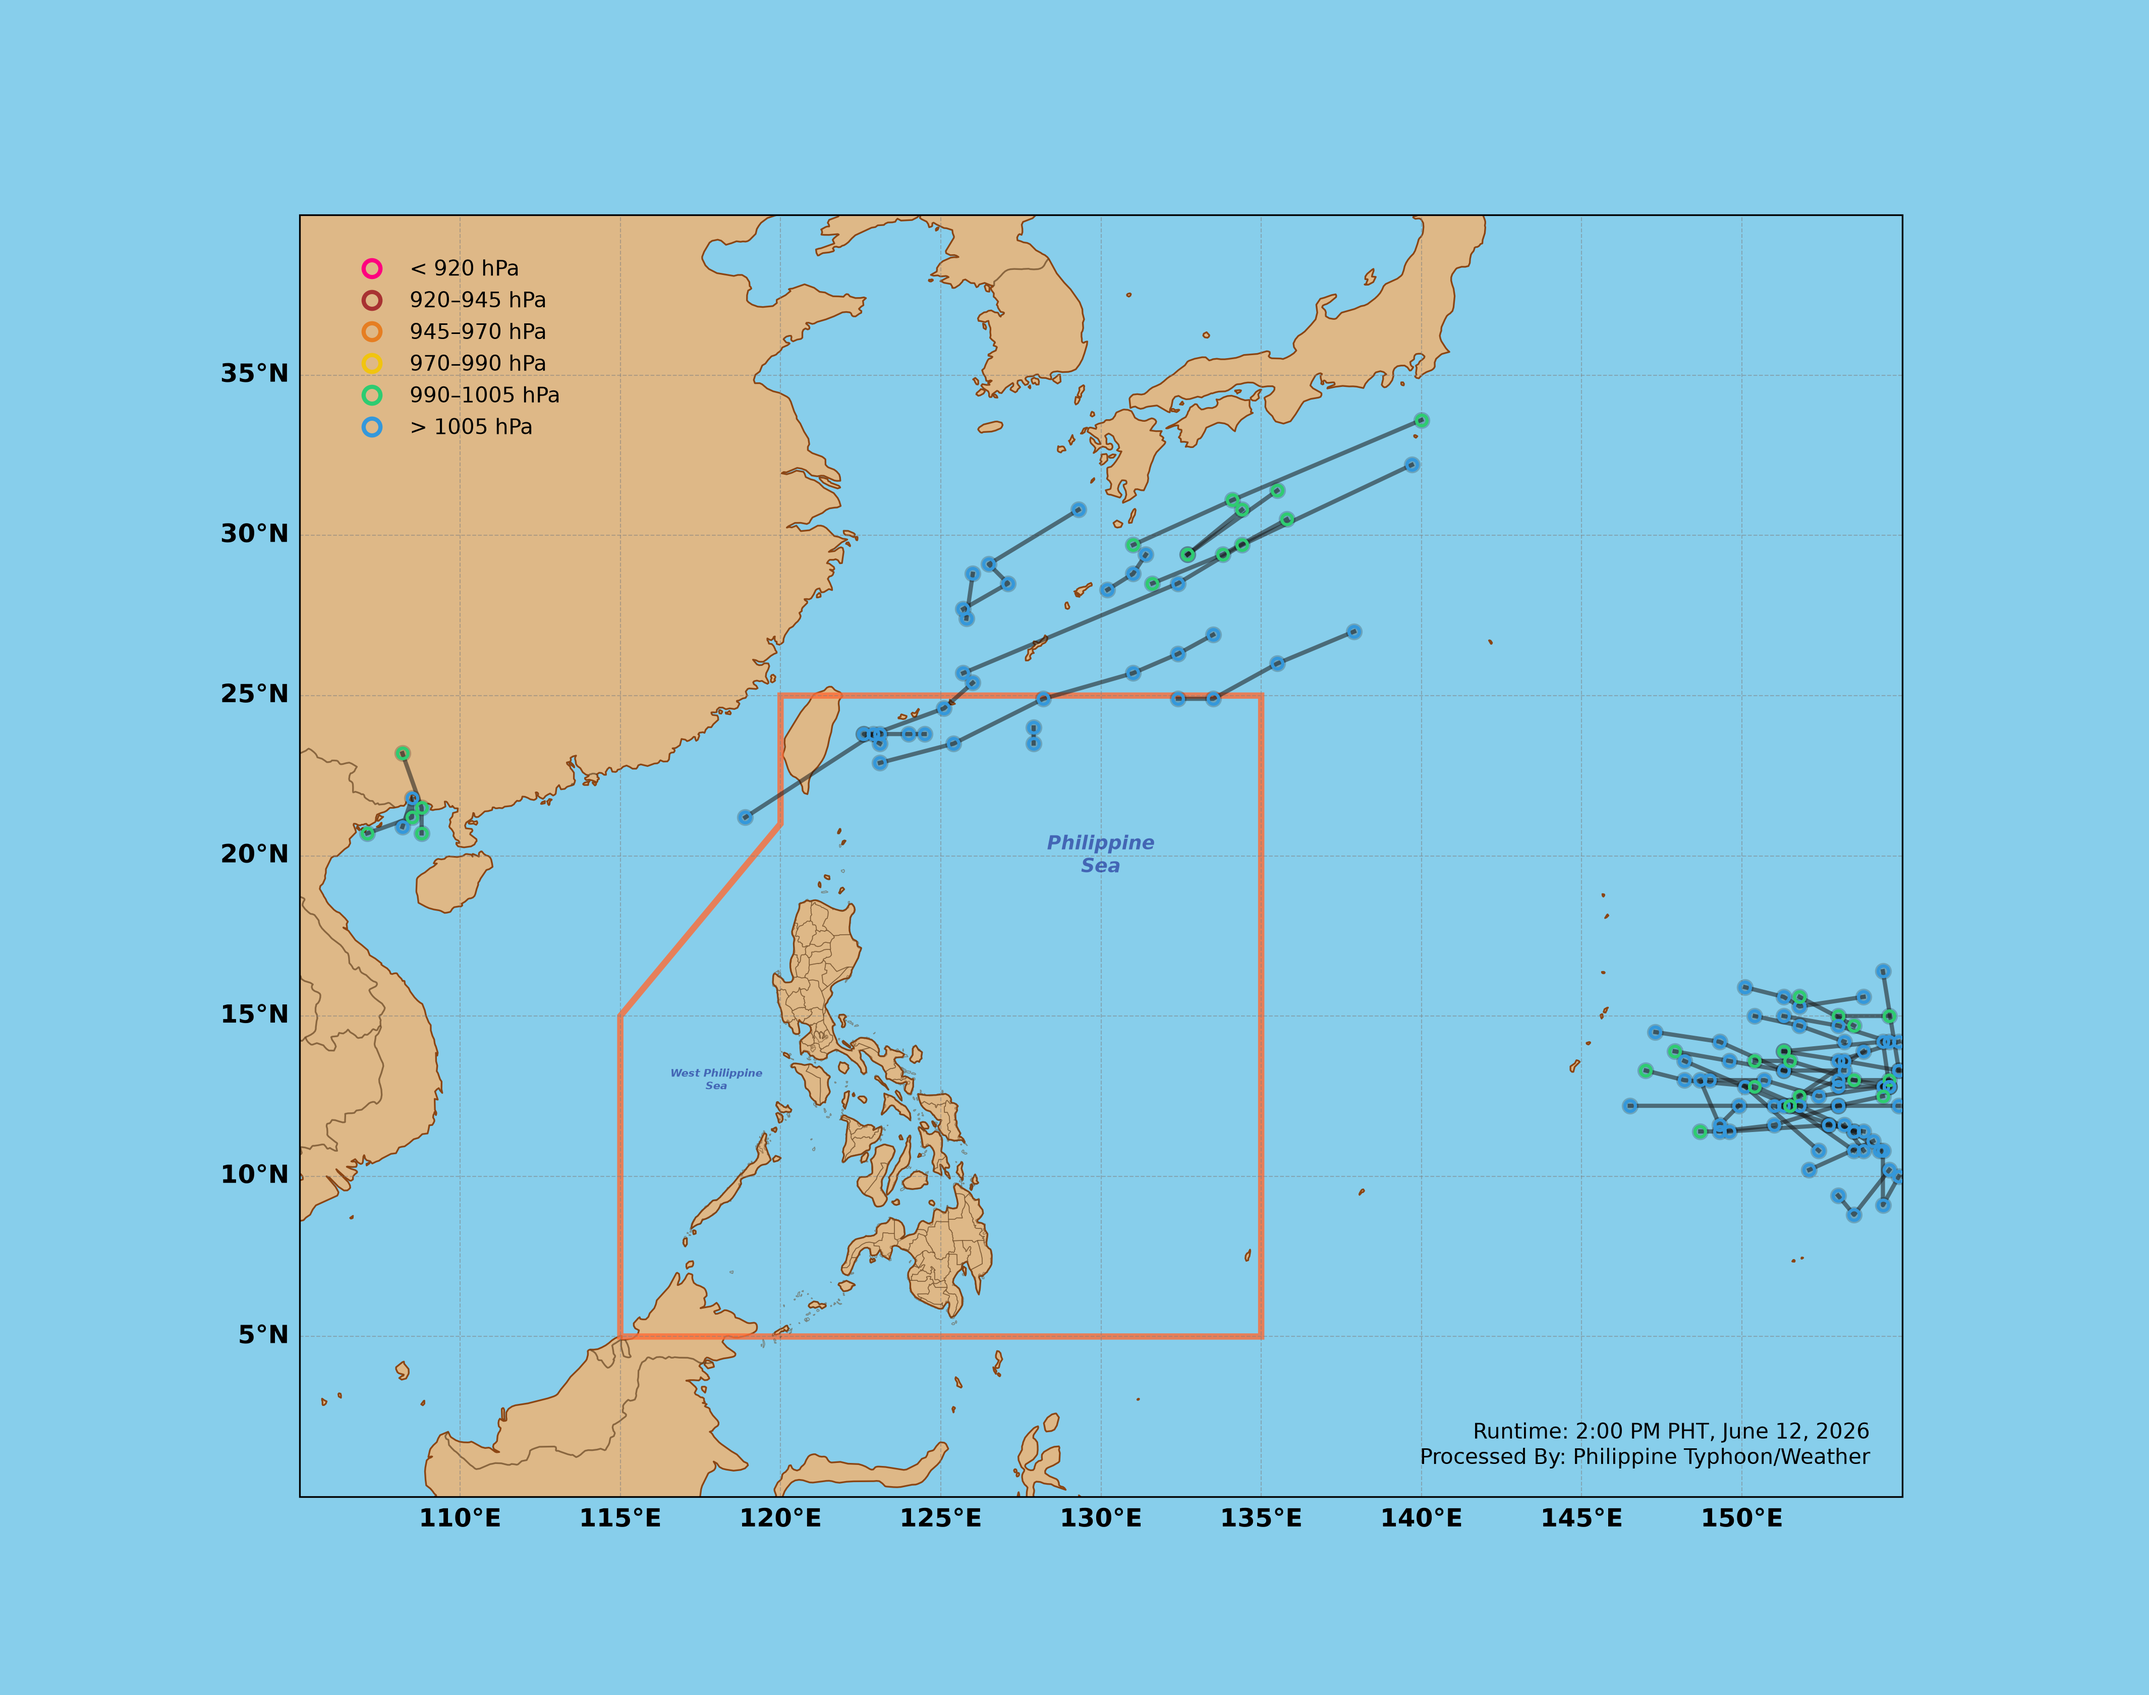
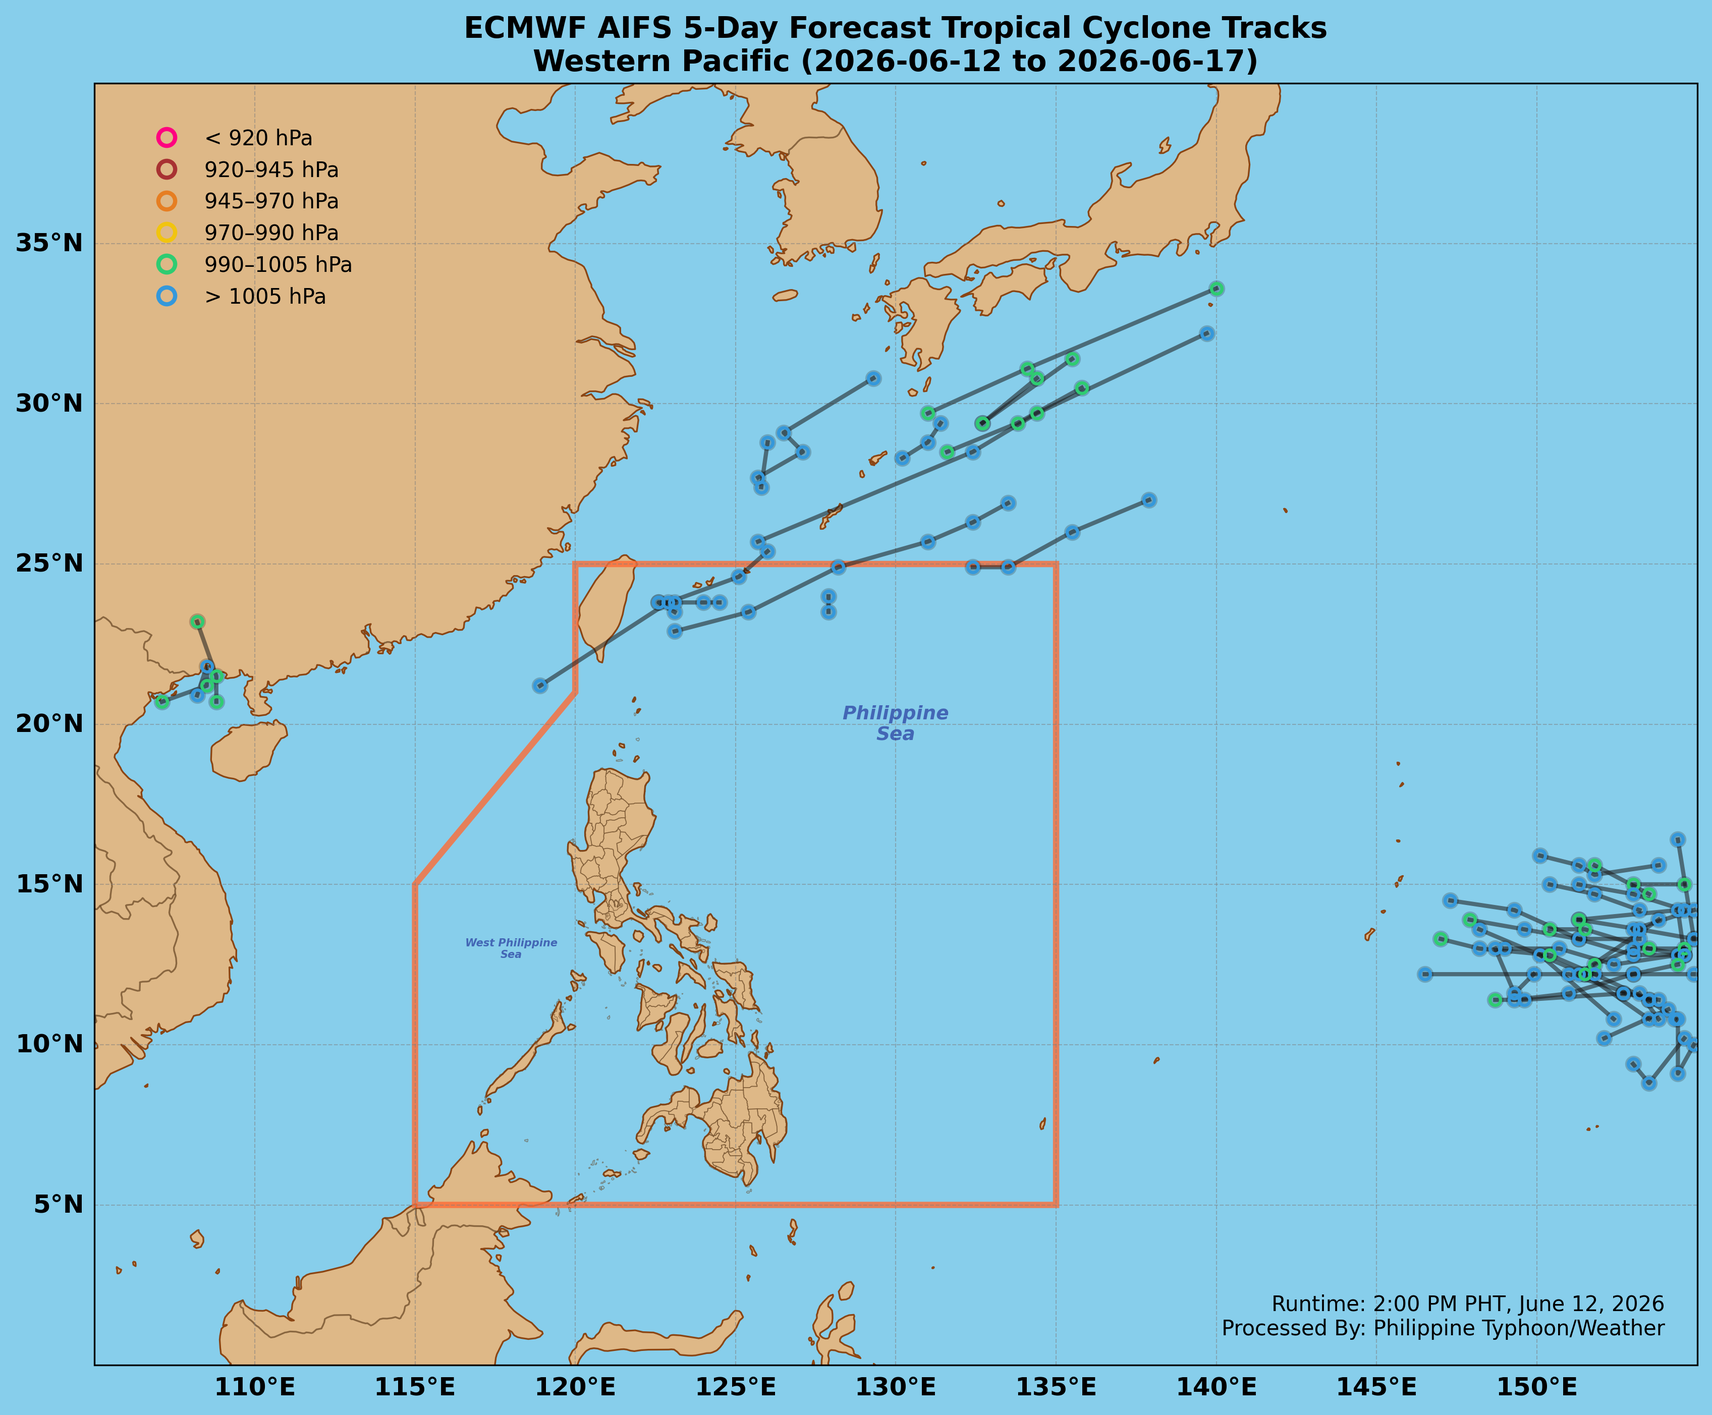
feat: add Forecast component and integrate IFS, AIFS, and AIGEFs model tracks

diff --git a/src/components/Forecast.jsx b/src/components/Forecast.jsx
@@ -170,15 +170,19 @@ const Forecast = () => {
   }, [availableIds]);
 
   const latestConfigurations = useMemo(() => {
+    // In single-model mode, only show run cycles where the selected model has images
+    const filteredOptions = compareMode
+      ? allAvailableOptions
+      : allAvailableOptions.filter((opt) => opt.model === selectedModel);
     return Array.from(
-      new Set(allAvailableOptions.map((opt) => `${opt.type}-${opt.modelTime}`))
+      new Set(filteredOptions.map((opt) => `${opt.type}-${opt.modelTime}`))
     ).sort((a, b) => {
       const timeA = a.substring(a.indexOf('-') + 1);
       const timeB = b.substring(b.indexOf('-') + 1);
       if (timeA !== timeB) return timeA < timeB ? 1 : -1;
       return a.startsWith("15day") ? -1 : 1;
     });
-  }, [allAvailableOptions]);
+  }, [allAvailableOptions, selectedModel, compareMode]);
 
   const timelineConfigs = useMemo(() => {
     return latestConfigurations.map((configId) => {

diff --git a/plot_aigefs_tracks.py b/plot_aigefs_tracks.py
@@ -42,7 +42,12 @@ def generate_plot(data, max_lead_time, output_file, title, runtime_text):
     wp_data = wp_data.sort_values(by=['init_time', 'track_id', 'sample', 'lead_time_hours'])
     init_times = wp_data['init_time'].unique()
 
-    fig = plt.figure(figsize=(14, 11), facecolor='#87CEEB')
+    if max_lead_time > 120:
+        fig = plt.figure(figsize=(12, 12))
+        fig_facecolor = None
+    else:
+        fig = plt.figure(figsize=(14, 11), facecolor='#87CEEB')
+        fig_facecolor = fig.get_facecolor()
     ax = plt.axes(projection=ccrs.PlateCarree())
     ax.set_extent([105, 155, 0, 40], crs=ccrs.PlateCarree())
 
@@ -153,10 +158,13 @@ def generate_plot(data, max_lead_time, output_file, title, runtime_text):
     legend_text = f"Runtime: {runtime_text}\nProcessed By: Philippine Typhoon/Weather"
     plt.text(0.98, 0.02, legend_text, transform=ax.transAxes, fontsize=10, verticalalignment='bottom', horizontalalignment='right')
     
-    ax.set_title(title, fontsize=16, weight='bold')
+    ax.set_title(title, fontsize=14, weight='bold')
 
     os.makedirs(os.path.dirname(output_file), exist_ok=True)
-    plt.savefig(output_file, dpi=300, bbox_inches='tight', facecolor=fig.get_facecolor(), edgecolor='none')
+    if fig_facecolor is not None:
+        plt.savefig(output_file, dpi=300, bbox_inches='tight', facecolor=fig_facecolor, edgecolor='none')
+    else:
+        plt.savefig(output_file, dpi=300, bbox_inches='tight')
     print(f"Plot saved to {output_file} ({plotted_tracks} plotted, {skipped_tracks} skipped)")
     plt.close()
 
@@ -210,7 +218,7 @@ if __name__ == "__main__":
     days_5day_str = f"{int(actual_5day_days)}" if actual_5day_hours % 24 == 0 else f"{actual_5day_days:.3g}"
     
     end_5day = (latest_ph + timedelta(hours=actual_5day_hours)).strftime("%Y-%m-%d")
-    title_5day = f"{days_5day_str}-Day Forecast Tropical Cyclone Tracks - NOAA AI-GEFS ({forecast_start} to {end_5day})"
+    title_5day = f"NOAA AI-GEFS {days_5day_str}-Day Forecast Tropical Cyclone Tracks\nWestern Pacific ({forecast_start} to {end_5day})"
     out_5day = f"public/assets/aigefs_tropical_cyclone_5day_forecast_{init_time_str}.png"
     generate_plot(data, 120, out_5day, title_5day, runtime_text)
 
@@ -220,6 +228,6 @@ if __name__ == "__main__":
     days_15day_str = f"{int(actual_15day_days)}" if actual_15day_hours % 24 == 0 else f"{actual_15day_days:.3g}"
     
     end_15day = (latest_ph + timedelta(hours=actual_15day_hours)).strftime("%Y-%m-%d")
-    title_15day = f"{days_15day_str}-Day Forecast Tropical Cyclone Tracks - NOAA AI-GEFS ({forecast_start} to {end_15day})"
+    title_15day = f"NOAA AI-GEFS {days_15day_str}-Day Forecast Tropical Cyclone Tracks\nWestern Pacific ({forecast_start} to {end_15day})"
     out_15day = f"public/assets/aigefs_tropical_cyclone_15day_forecast_{init_time_str}.png"
     generate_plot(data, 360, out_15day, title_15day, runtime_text)

diff --git a/plot_aifs_tracks.py b/plot_aifs_tracks.py
@@ -42,7 +42,12 @@ def generate_plot(data, max_lead_time, output_file, title, runtime_text):
     wp_data = wp_data.sort_values(by=['init_time', 'track_id', 'sample', 'lead_time_hours'])
     init_times = wp_data['init_time'].unique()
 
-    fig = plt.figure(figsize=(14, 11), facecolor='#87CEEB')
+    if max_lead_time > 120:
+        fig = plt.figure(figsize=(12, 12))
+        fig_facecolor = None
+    else:
+        fig = plt.figure(figsize=(14, 11), facecolor='#87CEEB')
+        fig_facecolor = fig.get_facecolor()
     ax = plt.axes(projection=ccrs.PlateCarree())
     ax.set_extent([105, 155, 0, 40], crs=ccrs.PlateCarree())
 
@@ -153,10 +158,13 @@ def generate_plot(data, max_lead_time, output_file, title, runtime_text):
     legend_text = f"Runtime: {runtime_text}\nProcessed By: Philippine Typhoon/Weather"
     plt.text(0.98, 0.02, legend_text, transform=ax.transAxes, fontsize=10, verticalalignment='bottom', horizontalalignment='right')
     
-    ax.set_title(title, fontsize=16, weight='bold')
+    ax.set_title(title, fontsize=14, weight='bold')
 
     os.makedirs(os.path.dirname(output_file), exist_ok=True)
-    plt.savefig(output_file, dpi=300, bbox_inches='tight', facecolor=fig.get_facecolor(), edgecolor='none')
+    if fig_facecolor is not None:
+        plt.savefig(output_file, dpi=300, bbox_inches='tight', facecolor=fig_facecolor, edgecolor='none')
+    else:
+        plt.savefig(output_file, dpi=300, bbox_inches='tight')
     print(f"Plot saved to {output_file} ({plotted_tracks} plotted, {skipped_tracks} skipped)")
     plt.close()
 
@@ -209,7 +217,7 @@ if __name__ == "__main__":
     days_5day_str = f"{int(actual_5day_days)}" if actual_5day_hours % 24 == 0 else f"{actual_5day_days:.3g}"
     
     end_5day = (latest_ph + timedelta(hours=actual_5day_hours)).strftime("%Y-%m-%d")
-    title_5day = f"{days_5day_str}-Day Forecast Tropical Cyclone Tracks - ECMWF AIFS ({forecast_start} to {end_5day})"
+    title_5day = f"ECMWF AIFS {days_5day_str}-Day Forecast Tropical Cyclone Tracks\nWestern Pacific ({forecast_start} to {end_5day})"
     out_5day = f"public/assets/aifs_tropical_cyclone_5day_forecast_{init_time_str}.png"
     generate_plot(data, 120, out_5day, title_5day, runtime_text)
 
@@ -219,6 +227,6 @@ if __name__ == "__main__":
     days_15day_str = f"{int(actual_15day_days)}" if actual_15day_hours % 24 == 0 else f"{actual_15day_days:.3g}"
     
     end_15day = (latest_ph + timedelta(hours=actual_15day_hours)).strftime("%Y-%m-%d")
-    title_15day = f"{days_15day_str}-Day Forecast Tropical Cyclone Tracks - ECMWF AIFS ({forecast_start} to {end_15day})"
+    title_15day = f"ECMWF AIFS {days_15day_str}-Day Forecast Tropical Cyclone Tracks\nWestern Pacific ({forecast_start} to {end_15day})"
     out_15day = f"public/assets/aifs_tropical_cyclone_15day_forecast_{init_time_str}.png"
     generate_plot(data, 360, out_15day, title_15day, runtime_text)

diff --git a/plot_ifs_tracks.py b/plot_ifs_tracks.py
@@ -42,7 +42,12 @@ def generate_plot(data, max_lead_time, output_file, title, runtime_text):
     wp_data = wp_data.sort_values(by=['init_time', 'track_id', 'sample', 'lead_time_hours'])
     init_times = wp_data['init_time'].unique()
 
-    fig = plt.figure(figsize=(14, 11), facecolor='#87CEEB')
+    if max_lead_time > 120:
+        fig = plt.figure(figsize=(12, 12))
+        fig_facecolor = None
+    else:
+        fig = plt.figure(figsize=(14, 11), facecolor='#87CEEB')
+        fig_facecolor = fig.get_facecolor()
     ax = plt.axes(projection=ccrs.PlateCarree())
     ax.set_extent([105, 155, 0, 40], crs=ccrs.PlateCarree())
 
@@ -153,10 +158,13 @@ def generate_plot(data, max_lead_time, output_file, title, runtime_text):
     legend_text = f"Runtime: {runtime_text}\nProcessed By: Philippine Typhoon/Weather"
     plt.text(0.98, 0.02, legend_text, transform=ax.transAxes, fontsize=10, verticalalignment='bottom', horizontalalignment='right')
     
-    ax.set_title(title, fontsize=16, weight='bold')
+    ax.set_title(title, fontsize=14, weight='bold')
 
     os.makedirs(os.path.dirname(output_file), exist_ok=True)
-    plt.savefig(output_file, dpi=300, bbox_inches='tight', facecolor=fig.get_facecolor(), edgecolor='none')
+    if fig_facecolor is not None:
+        plt.savefig(output_file, dpi=300, bbox_inches='tight', facecolor=fig_facecolor, edgecolor='none')
+    else:
+        plt.savefig(output_file, dpi=300, bbox_inches='tight')
     print(f"Plot saved to {output_file} ({plotted_tracks} plotted, {skipped_tracks} skipped)")
     plt.close()
 
@@ -210,7 +218,7 @@ if __name__ == "__main__":
     days_5day_str = f"{int(actual_5day_days)}" if actual_5day_hours % 24 == 0 else f"{actual_5day_days:.3g}"
     
     end_5day = (latest_ph + timedelta(hours=actual_5day_hours)).strftime("%Y-%m-%d")
-    title_5day = f"{days_5day_str}-Day Forecast Tropical Cyclone Tracks - ECMWF IFS ({forecast_start} to {end_5day})"
+    title_5day = f"ECMWF IFS {days_5day_str}-Day Forecast Tropical Cyclone Tracks\nWestern Pacific ({forecast_start} to {end_5day})"
     out_5day = f"public/assets/ifs_tropical_cyclone_5day_forecast_{init_time_str}.png"
     generate_plot(data, 120, out_5day, title_5day, runtime_text)
 
@@ -220,6 +228,6 @@ if __name__ == "__main__":
     days_15day_str = f"{int(actual_15day_days)}" if actual_15day_hours % 24 == 0 else f"{actual_15day_days:.3g}"
     
     end_15day = (latest_ph + timedelta(hours=actual_15day_hours)).strftime("%Y-%m-%d")
-    title_15day = f"{days_15day_str}-Day Forecast Tropical Cyclone Tracks - ECMWF IFS ({forecast_start} to {end_15day})"
+    title_15day = f"ECMWF IFS {days_15day_str}-Day Forecast Tropical Cyclone Tracks\nWestern Pacific ({forecast_start} to {end_15day})"
     out_15day = f"public/assets/ifs_tropical_cyclone_15day_forecast_{init_time_str}.png"
     generate_plot(data, 360, out_15day, title_15day, runtime_text)
